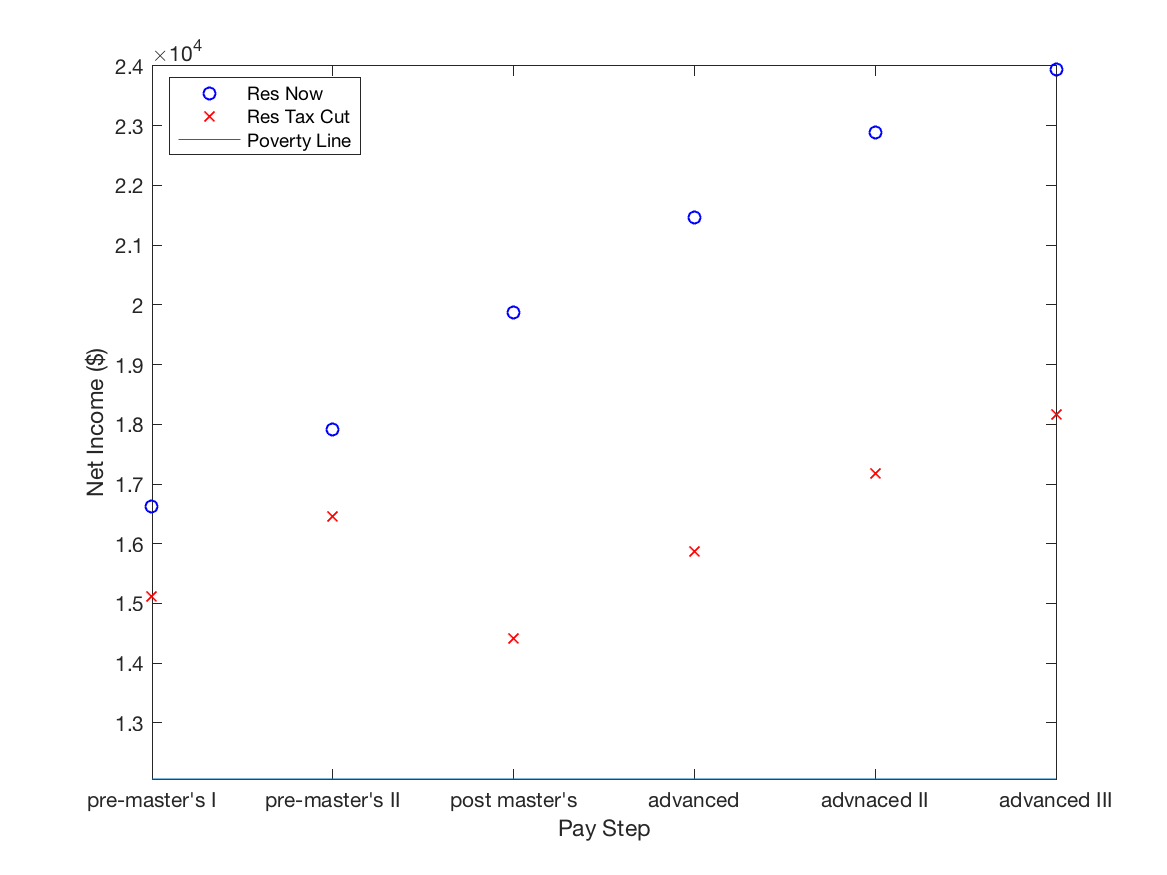
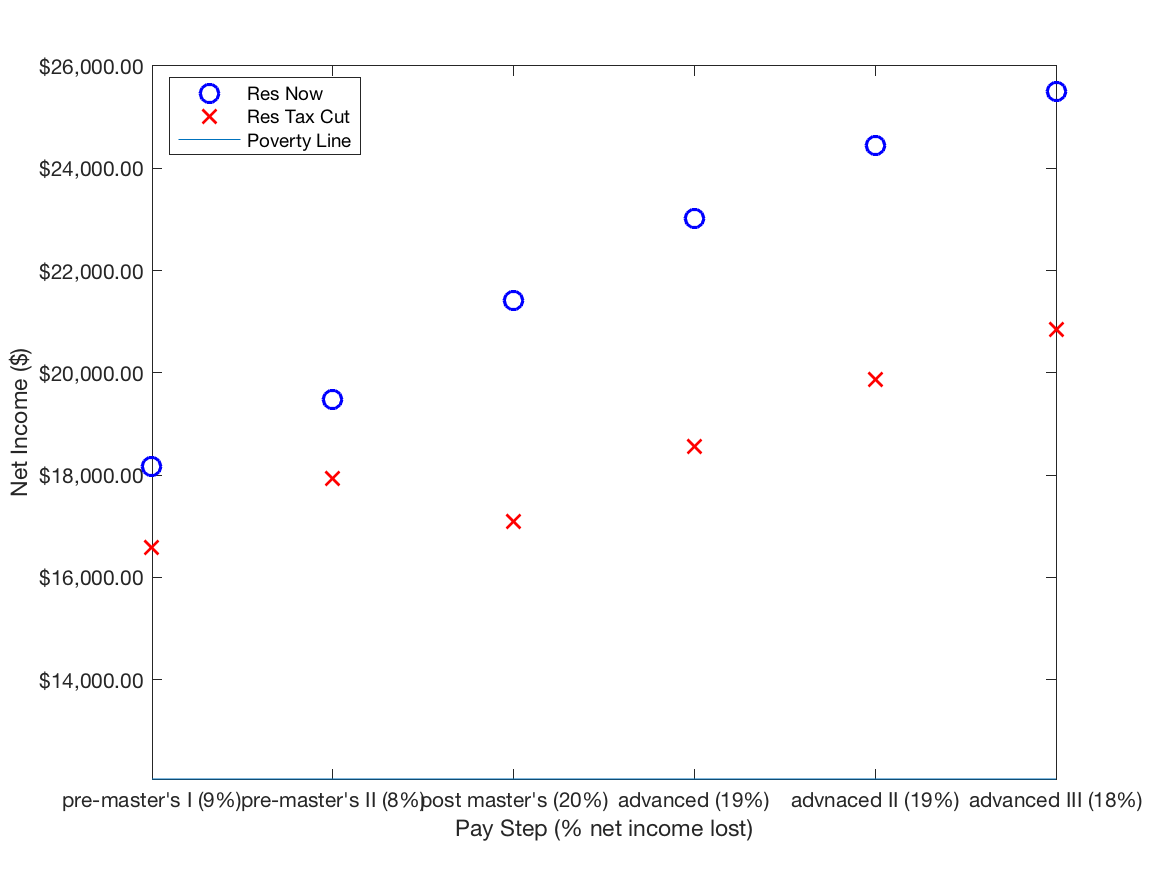
added personal exemption and standard deduction

diff --git a/new_old_taxes.m b/new_old_taxes.m
@@ -5,6 +5,11 @@ salaries = monthlysalaries*12;
 salarynames = {'pre-master''s I', 'pre-master''s II', 'post master''s', 'advanced', 'advnaced II', 'advanced III'}; 
 S = length(salaries); 
 
+standard_decuction_now = 4050; 
+standard_decuction_future = 12200; 
+personal_exemption_now = 6350; 
+personal_exemption_future = 0; 
+
 res.net_income.now = zeros(S, 1); 
 res.net_income.future = zeros(S,1); 
 res.tuition = 17331.50; 
@@ -16,45 +21,57 @@ nonres.tuition = 32433.50;
 poverty = 12060; 
 for s = 1:S
     
+    % get amount of salary that is taxable 
+    taxable_salary_now    = salaries(s) - standard_decuction_now - personal_exemption_now; 
+    taxable_salary_future = salaries(s) - standard_decuction_future - personal_exemption_future; 
+    
     if salaries(s) < 37951
-        res.net_income.now(s) = salaries(s) - salaries(s)*0.15;
-        nonres.net_income.now(s) = salaries(s) - salaries(s)*0.15;
+        res.net_income.now(s)    = salaries(s) - taxable_salary_now*0.15;
+        nonres.net_income.now(s) = salaries(s) - taxable_salary_now*0.15;
     end
     
     if salaries(s) + res.tuition < 38701
         fprintf('YES')
-        res.net_income.future(s) = salaries(s) - (salaries(s) + res.tuition)*0.12; 
+        res.net_income.future(s) = salaries(s) - (taxable_salary_future + res.tuition)*0.12; 
     elseif salaries(s) + res.tuition > 38701
-        res.net_income.future(s) = salaries(s) - (salaries(s) + res.tuition)*0.22; 
+        res.net_income.future(s) = salaries(s) - (taxable_salary_future  + res.tuition)*0.22; 
     end
     
     if salaries(s) + nonres.tuition < 38701
         fprintf('YES'); 
-        nonres.net_income.future(s) = salaries(s) - (salaries(s) + nonres.tuition)*0.12; 
+        nonres.net_income.future(s) = salaries(s) - (taxable_salary_future  + nonres.tuition)*0.12; 
     elseif salaries(s) + nonres.tuition > 38701
-        nonres.net_income.future(s) = salaries(s) - (salaries(s) + nonres.tuition)*0.22; 
+        nonres.net_income.future(s) = salaries(s) - (taxable_salary_future  + nonres.tuition)*0.22; 
     end
     
 end
 
+pct_salary_lost = round( (1 - res.net_income.future./res.net_income.now)*100); 
+pct_salary_lost = arrayfun( @(x) [' (' num2str(x) '%)'], pct_salary_lost, 'UniformOutput', 0);
+
+
 %% Plot 
 
-figure(1); clf; 
-plot( res.net_income.now, 'bo' ); hold on; 
-plot( res.net_income.future, 'rx'); hold on; 
+h = figure(1); clf; 
+h.Position = [360 151 720 547]; 
+plot( res.net_income.now, 'bo', 'MarkerSize', 9, 'LineWidth', 1.5); hold on; 
+plot( res.net_income.future, 'rx', 'MarkerSize', 9, 'LineWidth', 1.5); hold on; 
 % plot( nonres.net_income.now, 'b--' ); hold on; 
 % plot( nonres.net_income.future, 'ro' ); hold on; 
-
 refline( 0, poverty); 
 
 ylabel('Net Income ($)'); 
-xlabel('Pay Step'); 
+ytickformat('usd')
 
+xlabel('Pay Step (% net income lost)'); 
+labels = strcat( salarynames', pct_salary_lost); 
 set(gca, 'XTick', 1:S); 
-set(gca, 'XTickLabels', salarynames); 
+set(gca, 'XTickLabels', labels); 
 
-% legend('Location', 'best', {'Res/Non-Res Now', 'Res Tax Cut', 'Non-Res Tax Cut', 'Poverty Line'}); % , 'Non-Res Tax Cut'}); 
+
 legend('Location', 'best', {'Res Now', 'Res Tax Cut', 'Poverty Line'}); % , 'Non-Res Tax Cut'}); 
+
+title( sprintf('Difference in Graduate Student Income\n Now and After Trump Tax Cut')); 
 
 filenm = 'income_now_vs_tax_cut'; 
 print(filenm, '-dpng'); 
